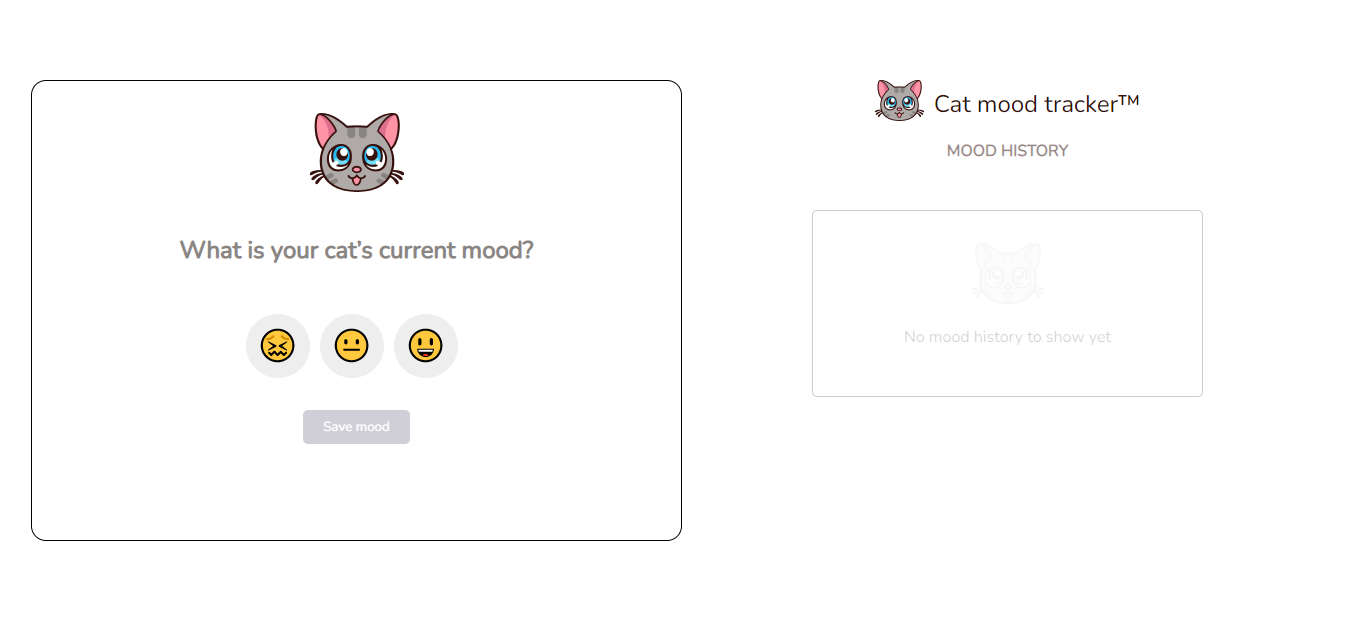
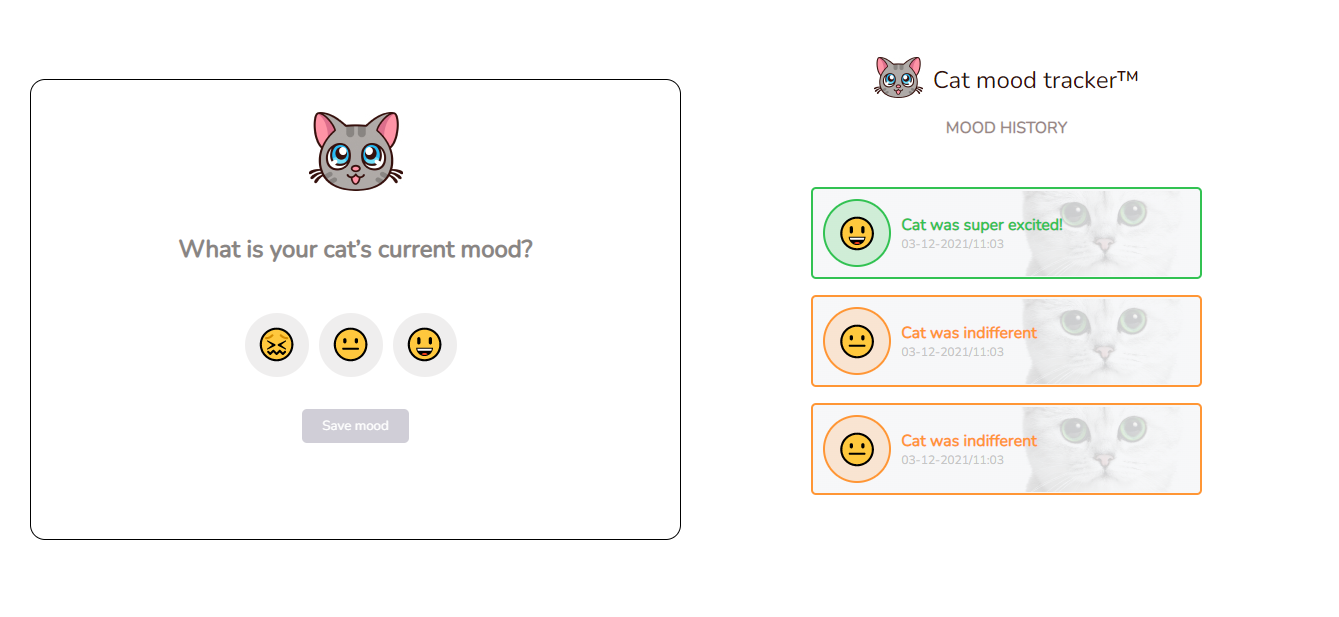
refactored app for scalibility

diff --git a/components/layout/Left.js b/components/layout/Left.js
@@ -1,4 +1,5 @@
 import React from 'react'
+import { moodTypes } from '../../constants/moods'
 
 const Left = ({ mood, handleMood, saveMood }) => {
 
@@ -12,23 +13,22 @@ const Left = ({ mood, handleMood, saveMood }) => {
                 <h2 className="base__left__box__text">What is your cat’s current mood?</h2>
 
                 <div className="base__left__box__moods">
-                    <button onClick={()=>handleMood("sad")}
-                    className={`base__left__box__moods__each${mood==="sad"?`--sad`:``} base__left__box__moods__each__sad`} >
-                        <span>😖</span>
-                    </button>
-                    <button onClick={()=>handleMood("indiff")}
-                    className={`base__left__box__moods__each${mood==="indiff"?`--indiff`:``} base__left__box__moods__each__indiff`}>
-                        <span>😐</span>
-                    </button>
-                    <button onClick={()=>handleMood("excited")}
-                    className={`base__left__box__moods__each${mood==="excited"?`--excited`:``} base__left__box__moods__each__excited`}>
-                        <span>😃</span>
-                    </button>
+                    
+                    {/* refactored mood types to be scalable , more moods can be added by adding them to the moodTypes object */}
+                    {
+                        moodTypes.map(item => (
+                            <button key={item.id} onClick={() => handleMood(item)}
+                                className={`base__left__box__moods__each${mood.name === item.name ? `--${item.name}` : ``} base__left__box__moods__each__${item.name}`} >
+                                <span>{item.emoji}</span>
+                            </button>
+                        ))
+                    }
+
                 </div>
 
                 <div className="base__left__box__cta">
-                    <button onClick={()=>{saveMood(mood)}}
-                    className={`base__left__box__cta__save${mood===""?`--disabled`:``}`}>
+                    <button onClick={() => { saveMood(mood) }}
+                        className={`base__left__box__cta__save${mood.name === "" ? `--disabled` : ``}`}>
                         Save mood
                     </button>
                 </div>

diff --git a/components/layout/Right.js b/components/layout/Right.js
@@ -34,22 +34,18 @@ const Right = ({ moods }) => {
                         <div className="base__right__states__stateful">
                             {
                                 moods.map(item => (
-                                    <div key={moods.indexOf(item)}
-                                        className={`base__right__states__stateful__each base__right__states__stateful__each--${item}`}
+                                    <div key={item.id}
+                                        className={`base__right__states__stateful__each base__right__states__stateful__each--${item.name}`}
                                     >
-                                        <div className={`base__right__states__stateful__each__emoji--${item}`}>
+                                        <div className={`base__right__states__stateful__each__emoji--${item.name}`}>
                                             <span >
-                                                {item === "sad" && '😖'}
-                                                {item === "indiff" && '😐'}
-                                                {item === "excited" && '😃'}
+                                                {item.emoji}
                                             </span>
                                         </div>
 
                                         <div>
                                             <p className="base__right__states__stateful__each__maintext">
-                                                {item === "sad" && 'Cat wasn’t having it'}
-                                                {item === "indiff" && 'Cat was indifferent'}
-                                                {item === "excited" && 'Cat was super excited!'}
+                                                {item.message}
                                             </p>
                                             <p className="base__right__states__stateful__each__subtext">
                                                 {moment(new Date()).format("DD-MM-YYYY")}/{moment(new Date()).format("hh")}:{moment(new Date()).format("mm")}

diff --git a/pages/index.js b/pages/index.js
@@ -7,7 +7,7 @@ import Right from '../components/layout/Right'
 export default function Home() {
 
     const [moodsArr, setMoodsArr] = useState([]);
-    const [mood, setMood] = useState("");
+    const [mood, setMood] = useState({name:""});
 
     const handleMood = (value) =>{
         setMood(value);
@@ -18,7 +18,7 @@ export default function Home() {
             value,
             ...moodsArr
         ])
-        setMood("");
+        setMood({name:""});
     }
 
   return (

diff --git a/constants/moods.js b/constants/moods.js
@@ -1,0 +1,20 @@
+export const moodTypes = [
+    {
+        id:1,
+        name:"sad",
+        emoji:"😖",
+        message:"Cat wasn’t having it"
+    },
+    {
+        id:2,
+        name:"indiff",
+        emoji:"😐",
+        message:"Cat was indifferent"
+    },
+    {
+        id:3,
+        name:"excited",
+        emoji:"😃",
+        message:"Cat was super excited!"
+    }
+]
